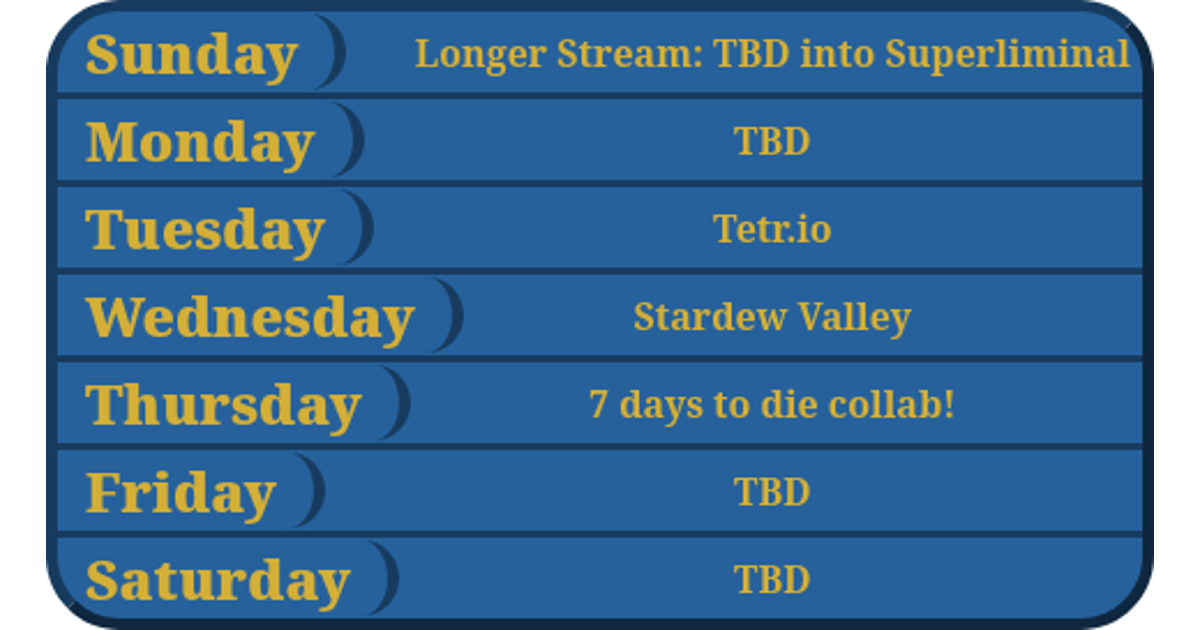
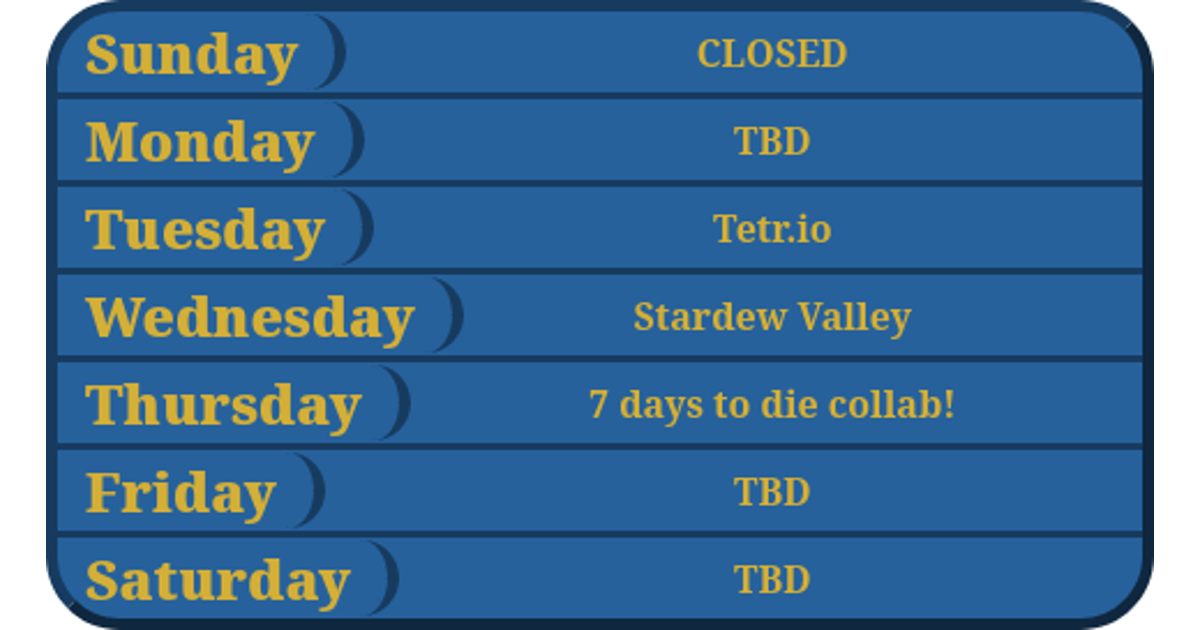
Scheudle

Changed region(s): [[0.3392, 0.0603, 0.9558, 0.1206]]

diff --git a/schedule/index.html b/schedule/index.html
@@ -8,8 +8,8 @@
     <meta content="Stream Schedule" property="og:title" />
     <meta content="The schedule for my streams, which I try to stay on top of" property="og:description" />
     <meta content="https://atlas-chainsteel.github.io/schedule/" property="og:url" />
-    <meta id="og-image" content="https://atlas-chainsteel.github.io/schedule/embedimage.png?v=15" property="og:image" />
-    <meta id="twitEmbed" content="https://atlas-chainsteel.github.io/schedule/embedimage.png?v=15" name="twitter:image" />
+    <meta id="og-image" content="https://atlas-chainsteel.github.io/schedule/embedimage.png?v=16" property="og:image" />
+    <meta id="twitEmbed" content="https://atlas-chainsteel.github.io/schedule/embedimage.png?v=16" name="twitter:image" />
     <meta content="summary_large_image" name="twitter:card" />
     <meta content="#26619c" data-react-helmet="true" name="theme-color" />
   </head>
@@ -18,7 +18,7 @@
     <div class="cont">
       <table class="schedule">
         <tr class="row">
-          <td class="day">Sunday</td><td class="plans">Longer Stream: TBD into Superliminal</td>
+          <td class="day">Sunday</td><td class="plans">CLOSED</td>
         </tr>
         <tr class="row">
           <td class="day">Monday</td><td class="plans">TBD</td>